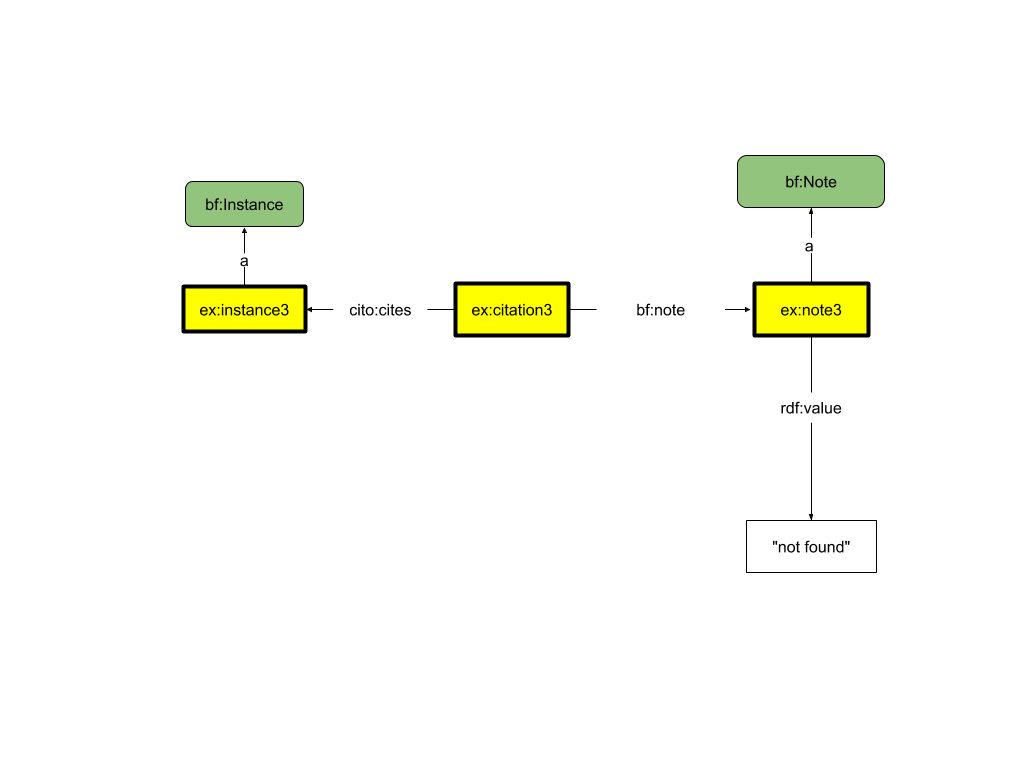
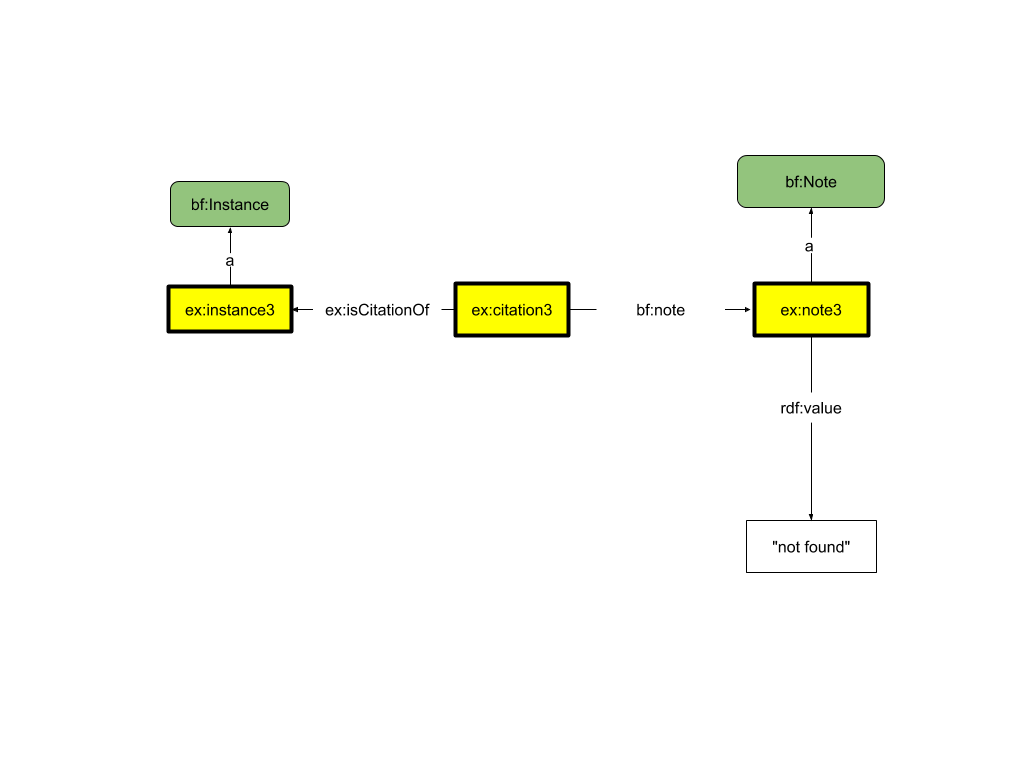
Final updates to citations proposal.

Changed region(s): [[0.1562, 0.375, 0.4062, 0.4375], [0.1562, 0.2188, 0.3125, 0.3125], [0.2188, 0.3125, 0.25, 0.3438]]

diff --git a/modeling_recommendations/bibliographic_citations.md b/modeling_recommendations/bibliographic_citations.md
@@ -6,6 +6,7 @@ Table of Contents
 > - [Overview](#overview)
 > - [Entities to Be Modeled](#entities)
 > - [Summary of Recommendations](#recommendations)
+> - [Areas for Future Research]
 > - [Recommended Classes](#classes)
 > - [Recommended Properties](#properties)
 > - [Diagrams](#diagrams)
@@ -23,11 +24,11 @@ In total, there are four use cases to be modeled:
 >3.  A citation is not found, and the cataloger does not add commentary.
 >4.  A citation is not found, and the cataloger adds further commentary about the reference source or a related citation.
 
-In addition, there is a need to model dates, identifiers, and other data related to citations. The proposed model will follow the general BIBFRAME modeling practices for dates, identifiers, and any other core data elements.
+There is also a need to model dates, identifiers, and other data related to citations. The proposed model will follow the general BIBFRAME modeling practices for dates, identifiers, and any other core data elements.
 
 To address these four use cases, a new class should be created to represent bibliographic citation entities (**ex:Citation**). A citation functions as an intermediate node between a reference source (bf:Work), and a resource of interest to the cataloger (typically a bf:Item or bf:Instance).
 
-A citation is related to a resource of interest by the property **cito:cites** (inverse cito:isCitedBy) and to the citing work by the property **ex:hasSource** (inverse ex:isSourceOf).
+A citation is related to a resource of interest by the property **ex:hasCitation** (inverse ex:isCitationOf) and to the citing work by the property **ex:hasSource** (inverse ex:isSourceOf).
 
 A citation may link directly to its source bf:Work, or it may link indirectly to the source through a specific location, modeled as a hierarchical chain proceeding from the most specific location up to the citing work. For example, a citation entity may be listed as a specific **ex:Entry** in a citing source, which may be located (**bf:place**) on a **ex:Page**, which may be part of (**bf:partOf**) a **ex:Volume**, which may be part of (**bf:partOf**) the citing source (bf:Work).
 
@@ -49,9 +50,15 @@ A negative citation is also modeled as an **bf:Note**, with the value "not found
 
 1.  Create a new class, **ex:Citation**, to represent bibliographic citations.
 
+2.  Create a new property, **ex:hasCitation** (inverse ex:isCitationOf) to link a citation to a cited resource. 
+
 2.  Optionally, the location within a citing source may also be specified. Create new classes, **ex:Volume**, **ex:Page**, and **ex:Entry**, to record the location of a citation.
 
 3.  Consider other location designators as appropriate.
+
+<a name="future">Areas for Future Research</a>
+--------------------------
+Earlier versions of this recommendation attempted differing levels of integration with the Citation Typing Ontology ([CiTO](http://www.sparontologies.net/ontologies/cito)), a [SPAR](http://www.sparontologies.net/) ontology focused on modeling citations. A second SPAR ontology, the Bibliographic Reference Ontology ([BiRO](http://www.sparontologies.net/ontologies/biro)), is also relevant to the bibliographic citations use case in RareMat. However, the precise relationship, if any, among RareMat citations, CiTO citations, and BiRO bibliographic references is an area that requires further research and clarification and lies beyond the scope of the current proposal.
 
 <a name="classes">Recommended Classes</a>
 -------------------
@@ -103,13 +110,13 @@ A negative citation is also modeled as an **bf:Note**, with the value "not found
 > - **Inverse:** ex:isSourceOf
 > - **Definition:** Relates this resource to the source from which it was derived.
 
-**cito:cites**
-> - **Label:** cites
-> - **URI:** [*http://purl.org/spar/cito/cites*](http://purl.org/spar/cito/cites)
+**ex:hasCitation**
+> - **Label:** has citation
+> - **URI:** [*http://example.org/hasCitation*](http://example.org/hasCitation)
 > - **Domain:** Unspecified
 > - **Range:** Unspecified
-> - **Inverse:** cito:isCitedBy
-> - **Definition:** The citing entity cites the cited entity, either directly and explicitly (as in the reference list of a journal article), indirectly (e.g. by citing a more recent paper by the same group on the same topic), or implicitly (e.g. as in artistic quotations or parodies, or in cases of plagiarism).
+> - **Inverse:** ex:isCitationOf
+> - **Definition:** The resource that is the focus of description (e.g., a bf:Item or bf:Instance) has a citation located in a standard reference source.
 
 **bf:partOf**
 > - **Label:** Is Part Of
